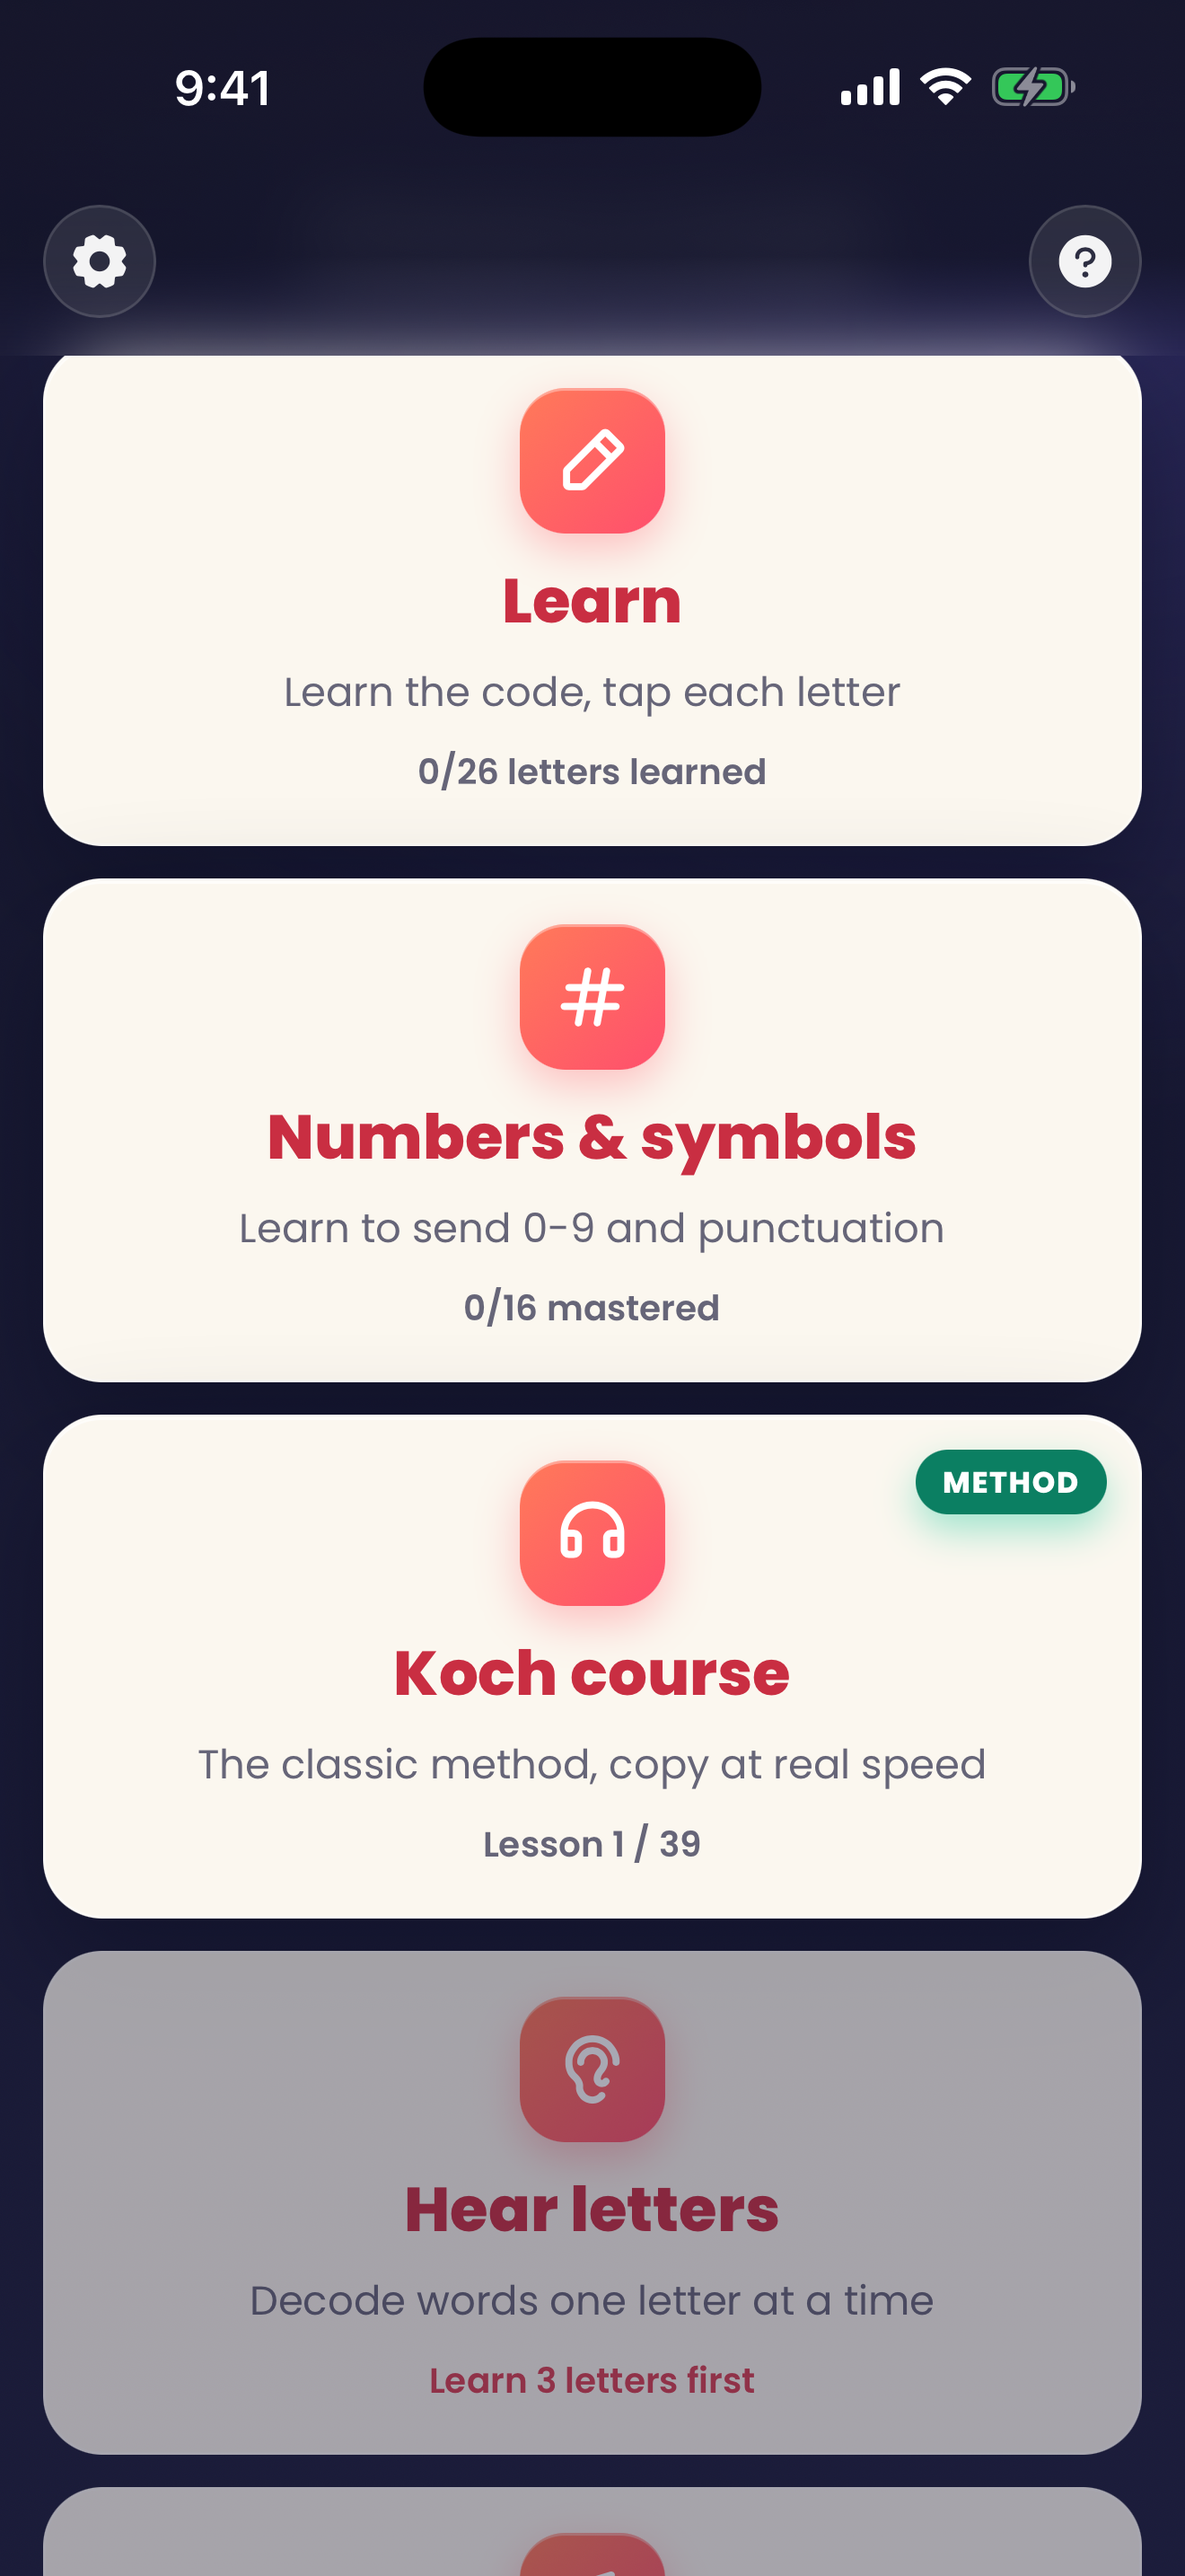
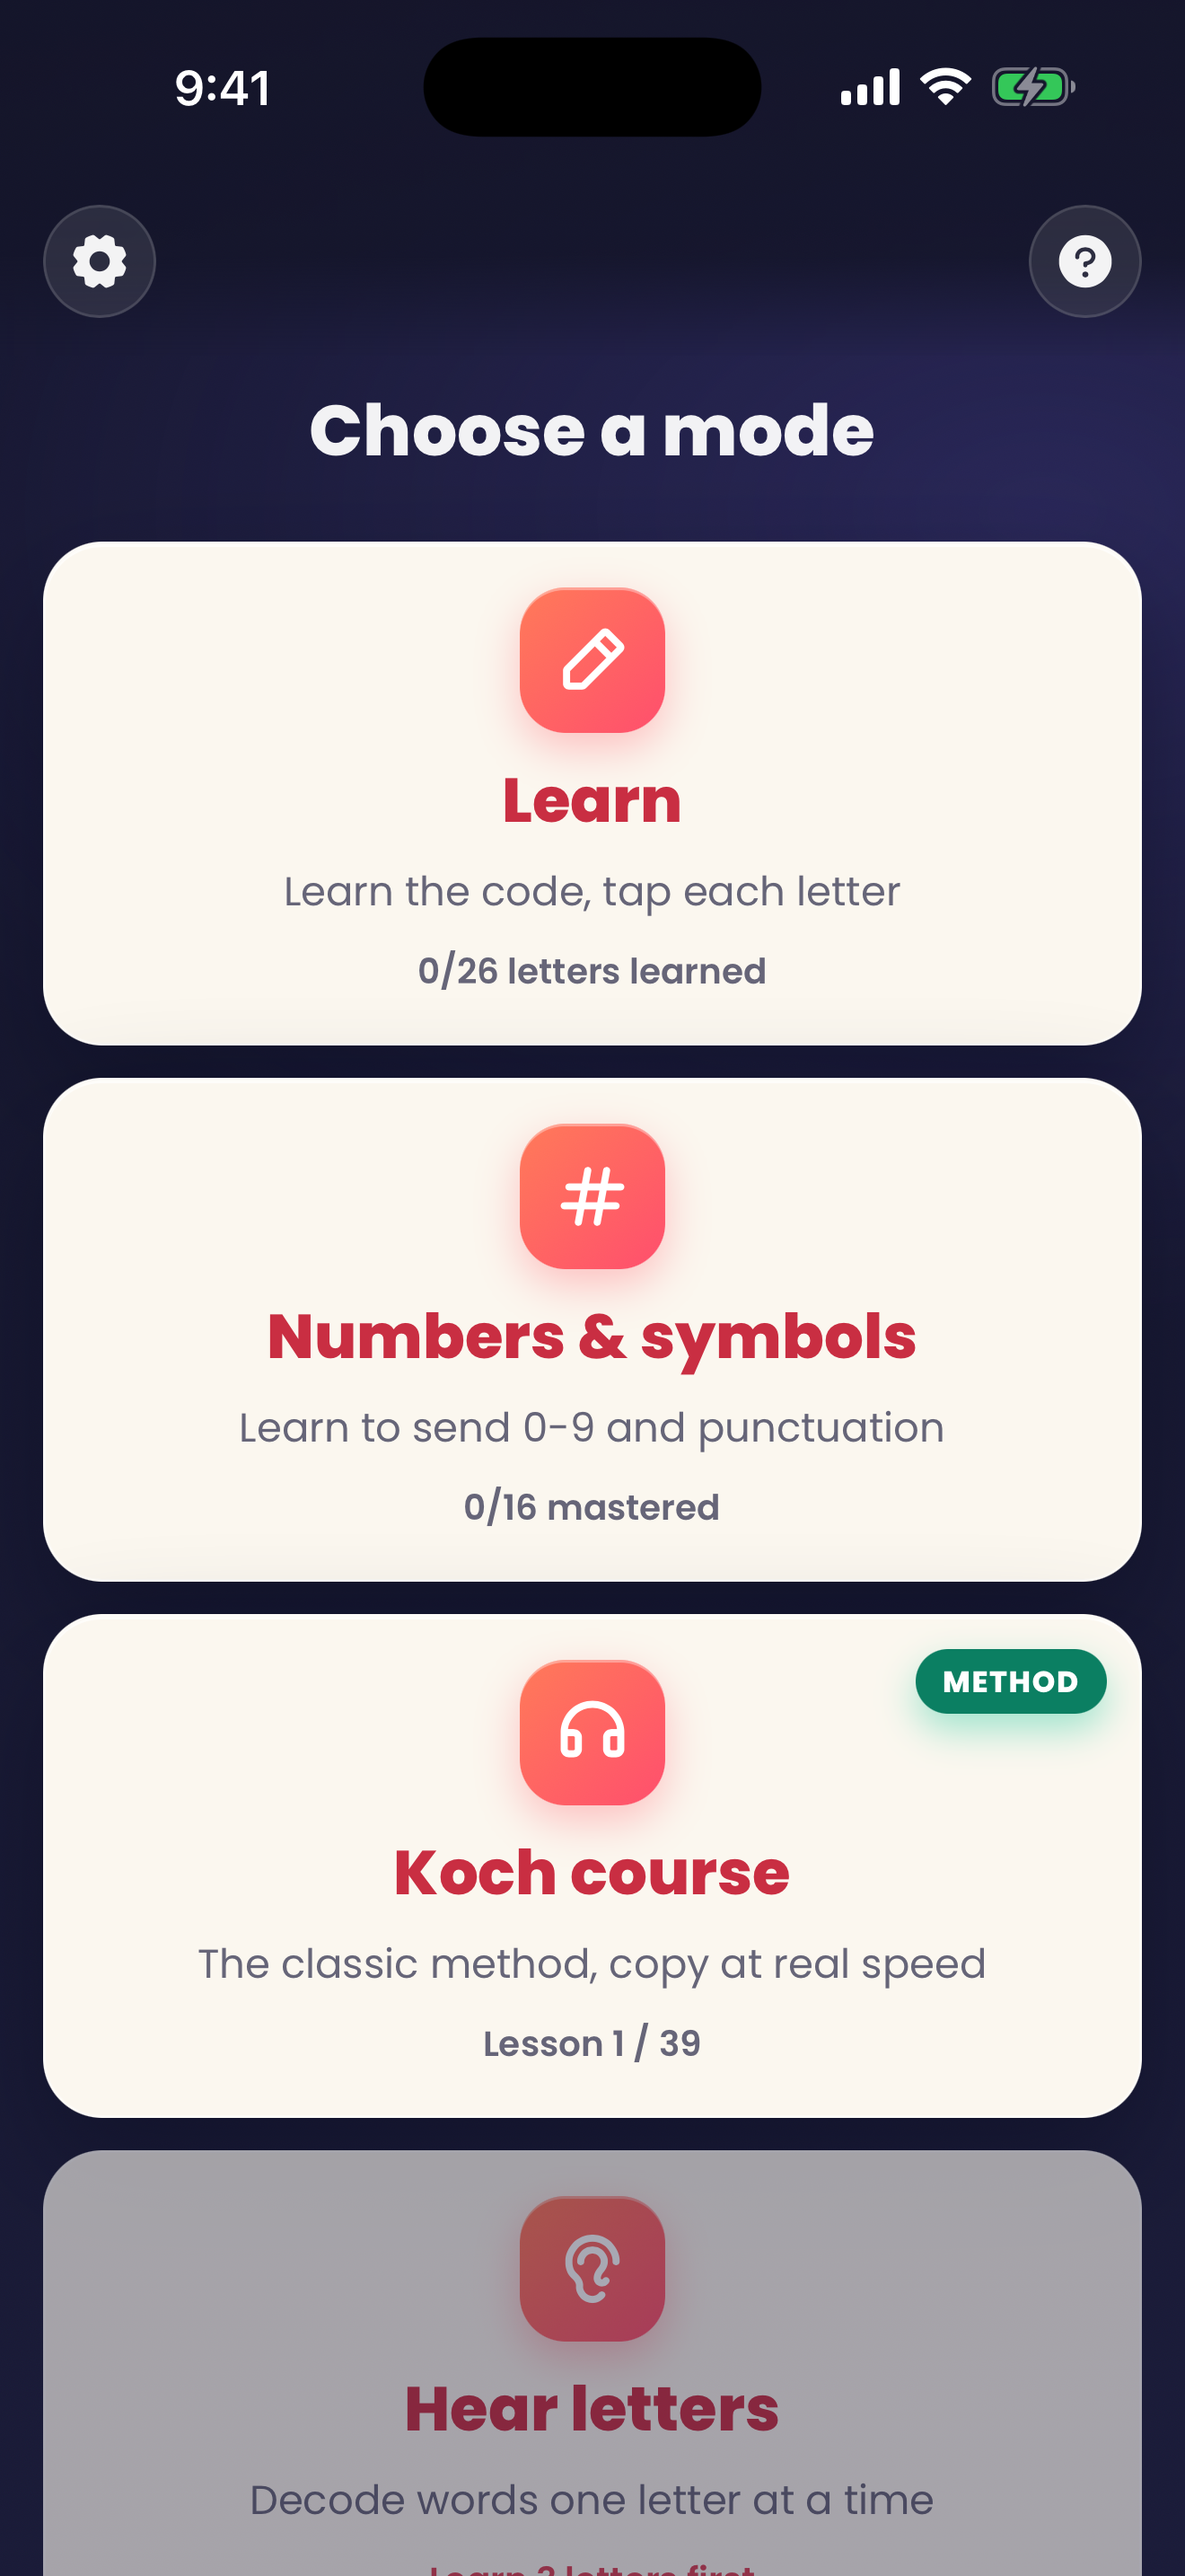
Align the brand on Dit Dah Me and close a Guideline 1.5 gap before submitting
Ryan asked for one submission, so this is a pass over what a reviewer would
object to rather than only the rename.

The rename now runs end to end: the start-screen wordmark, the share sheet
text, the home screen, and the listing all say Dit Dah Me. The wordmark went
from six characters on one word to ten across three, so .start-title.brand
drops from 22vw to 12.5vw with nowrap; verified on device that it still fills
the width with the gutter intact. The domain stays ditdah.me, which is the
same words spoken aloud.

The real find was Guideline 1.5: the Support URL pointed at ditdah.me, whose
root page carries no contact information at all, and the only email on the
whole site was buried in the privacy policy. Added /support.html with a real
address and answers to the questions people actually ask, linked it from About
beside the privacy policy, and pointed the listing at it.

Also checked, each confirmed rather than assumed: all 12 outbound URLs resolve
200; gaze mode is unreachable in the shell so no camera usage string is needed;
no placeholder text ships (the example.com address lives in the unreachable
Account form and in tests); and external links open real Safari rather than
trapping the reader in the webview.

Six screenshots, recaptured from the current build, now lead with the wordmark.
Getting them needed three attempts and each failure was informative: a clean
reinstall wipes localStorage so the app lands on onboarding, the Koch, Squadron
[…]

diff --git a/public/support.html b/public/support.html
@@ -1,0 +1,99 @@
+<!doctype html>
+<html lang="en">
+<head>
+  <meta charset="utf-8" />
+  <meta name="viewport" content="width=device-width, initial-scale=1.0, viewport-fit=cover" />
+  <title>Support · Dit Dah Me</title>
+  <meta name="description" content="Support and contact for Dit Dah Me, the Morse code trainer at ditdah.me." />
+  <link rel="icon" href="/favicon.svg" type="image/svg+xml" />
+  <link rel="preconnect" href="https://fonts.googleapis.com" />
+  <link rel="preconnect" href="https://fonts.gstatic.com" crossorigin />
+  <link href="https://fonts.googleapis.com/css2?family=Poppins:wght@400;500;600;700;800&display=swap" rel="stylesheet" />
+  <style>
+    :root {
+      --bg-1: #14152a; --bg-2: #1c1d3c; --bg-3: #2a1c3f;
+      --card: #fbf7ef; --ink: #2c2b3a; --ink-soft: #666578;
+      --on-dark: rgba(255,255,255,0.94); --on-dark-soft: rgba(255,255,255,0.62);
+      --amber: #ffb020; --red-text: #c92e42;
+      --font: 'Poppins', system-ui, -apple-system, 'Segoe UI', Helvetica, Arial, sans-serif;
+    }
+    * { margin: 0; padding: 0; box-sizing: border-box; }
+    body {
+      background: linear-gradient(160deg, var(--bg-1) 0%, var(--bg-2) 55%, var(--bg-3) 100%);
+      background-attachment: fixed;
+      color: var(--on-dark);
+      font: 16px/1.65 var(--font);
+      padding: 32px 20px calc(56px + env(safe-area-inset-bottom));
+    }
+    main { max-width: 680px; margin: 0 auto; }
+    .top { font-size: 14px; display: inline-block; margin-bottom: 22px; color: var(--amber); text-decoration: none; font-weight: 600; }
+    .top:hover { text-decoration: underline; }
+    h1 { font-size: clamp(28px, 7vw, 36px); font-weight: 800; letter-spacing: -0.5px; line-height: 1.15; margin-bottom: 6px; }
+    .sub { color: var(--on-dark-soft); font-size: 14px; margin-bottom: 26px; }
+    h2 { font-size: 20px; font-weight: 700; margin: 30px 0 8px; }
+    p, li { margin-bottom: 10px; }
+    ul { padding-left: 22px; margin-bottom: 10px; }
+    a { color: var(--amber); }
+    .card {
+      background: var(--card); color: var(--ink);
+      border-radius: 16px; padding: 18px 20px; margin: 16px 0;
+      box-shadow: 0 18px 40px rgba(8,10,30,0.45), inset 0 1px 0 rgba(255,255,255,0.7);
+    }
+    .card p:last-child { margin-bottom: 0; }
+    .card a { color: var(--red-text); }
+    table { width: 100%; border-collapse: collapse; margin: 14px 0; font-size: 15px; }
+    th, td { text-align: left; padding: 9px 10px; border-bottom: 1px solid rgba(255,255,255,0.14); vertical-align: top; }
+    th { font-weight: 700; color: var(--on-dark); }
+    td { color: var(--on-dark-soft); }
+    .foot { margin-top: 34px; padding-top: 16px; border-top: 1px solid rgba(255,255,255,0.14); font-size: 14px; color: var(--on-dark-soft); }
+    @media (prefers-reduced-motion: reduce) { * { animation: none !important; transition: none !important; } }
+  </style>
+</head>
+<body>
+  <main>
+    <a class="top" href="/">&larr; Dit Dah Me</a>
+    <h1>Support</h1>
+    <p class="sub">Dit Dah Me (ditdah.me and the iPhone app) · Updated October 25, 2026</p>
+
+    <div class="card">
+      <p><strong>Need help, found a bug, or have an idea?</strong> Email
+      <a href="mailto:ryanbyrd@gmail.com">ryanbyrd@gmail.com</a> and you will get
+      a reply from a person. There is no ticket system and no bot.</p>
+    </div>
+
+    <h2>Common questions</h2>
+
+    <h2>Do I need an account?</h2>
+    <p>No. The iPhone app has no sign-in at all, and everything you learn is
+    stored on your own device.</p>
+
+    <h2>How do I move my progress to another device?</h2>
+    <p>Settings shows a <strong>progress code</strong>. Read it on the old
+    device, type it into the new one. Nothing is stored on a server.</p>
+
+    <h2>The sound does not play</h2>
+    <p>Check the ring/silent switch and the volume. Dit Dah Me plays through the
+    normal media channel, so it should be audible even with the ringer off; if
+    it is not, please email and say which iPhone and iOS version you are on.</p>
+
+    <h2>How do I erase everything?</h2>
+    <p>Settings &rarr; <strong>Reset progress</strong>. Deleting the app removes
+    it all too.</p>
+
+    <h2>Accessibility</h2>
+    <p>Dit Dah Me supports VoiceOver throughout, one-switch scanning, and a
+    single-key mode where a short press is a dit and a long press is a dah. If
+    something is hard to use with your setup, please say so in an email; that
+    feedback shapes the app.</p>
+
+    <h2>Privacy</h2>
+    <p>See the <a href="/privacy.html">privacy policy</a>. The short version:
+    no account, no ads, nothing sold.</p>
+
+    <div class="foot">
+      <p>Email: <a href="mailto:ryanbyrd@gmail.com">ryanbyrd@gmail.com</a></p>
+      <p>Dit Dah Me is a remake of Ace Centre's Morse Learn, used under Apache 2.0.</p>
+    </div>
+  </main>
+</body>
+</html>

diff --git a/src/components/Share.tsx b/src/components/Share.tsx
@@ -44,20 +44,20 @@ const TARGETS: Target[] = [
   {
     id: 'reddit',
     label: 'Reddit',
-    href: `https://www.reddit.com/submit?url=${enc(SITE)}&title=${enc('Ditdah: learn Morse code, one dit at a time')}`,
+    href: `https://www.reddit.com/submit?url=${enc(SITE)}&title=${enc('Dit Dah Me: learn Morse code, one dit at a time')}`,
     Icon: RedditLogo,
     tint: '#ff4500',
   },
   {
     id: 'email',
     label: 'Email',
-    href: `mailto:?subject=${enc('Ditdah: learn Morse code')}&body=${enc(`${BLURB}\n\n${SITE}`)}`,
+    href: `mailto:?subject=${enc('Dit Dah Me: learn Morse code')}&body=${enc(`${BLURB}\n\n${SITE}`)}`,
     Icon: EnvelopeSimple,
     tint: '#6b6b7b',
   },
 ];
 
-/** Share Ditdah with a friend. Uses the native sheet where the device has one. */
+/** Share Dit Dah Me with a friend. Uses the native sheet where the device has one. */
 export function Share({ compact = false }: { compact?: boolean }) {
   const { settings } = useApp();
   const [copied, setCopied] = useState(false);
@@ -66,7 +66,7 @@ export function Share({ compact = false }: { compact?: boolean }) {
 
   const nativeShare = async () => {
     try {
-      await navigator.share({ title: 'Ditdah', text: BLURB, url: SITE });
+      await navigator.share({ title: 'Dit Dah Me', text: BLURB, url: SITE });
       note('native');
     } catch {
       /* the user dismissed the sheet */
@@ -91,7 +91,7 @@ export function Share({ compact = false }: { compact?: boolean }) {
       <h2 className="share-title" id="share-title">
         <ShareNetwork size={18} weight="bold" aria-hidden="true" /> Know someone who would like this?
       </h2>
-      <p className="share-sub">Send them Ditdah. It is free and needs no account.</p>
+      <p className="share-sub">Send them Dit Dah Me. It is free and needs no account.</p>
 
       <div className="share-row">
         {TARGETS.map(({ id, label, href, Icon, tint }) => (
@@ -110,7 +110,7 @@ export function Share({ compact = false }: { compact?: boolean }) {
           </a>
         ))}
 
-        <button className="share-btn copy" onClick={copy} aria-label="Copy link to Ditdah">
+        <button className="share-btn copy" onClick={copy} aria-label="Copy link to Dit Dah Me">
           {copied ? <Check size={22} weight="bold" aria-hidden="true" /> : <LinkSimple size={22} weight="bold" aria-hidden="true" />}
           <span>{copied ? 'Copied' : 'Copy link'}</span>
         </button>

diff --git a/src/index.css b/src/index.css
@@ -969,7 +969,10 @@ input, textarea { user-select: text; -webkit-user-select: text; font-size: 16px;
 .np-chip.current { background: var(--red); color: #fff; box-shadow: 0 4px 12px rgba(255,79,109,0.4); }
 
 /* Brand wordmark */
-.start-title.brand { font-size: clamp(72px, 22vw, 150px); letter-spacing: -3px; }
+/* "Dit Dah Me" is ten characters across three words, where "Ditdah" was six on
+   one. 22vw overflowed the phone; this keeps it on a single line edge to edge
+   with the gutter intact. */
+.start-title.brand { font-size: clamp(34px, 12.5vw, 92px); letter-spacing: -2px; white-space: nowrap; }
 .start-tagline { margin: -6px 0 0; color: var(--on-dark-soft); font-size: clamp(15px, 3.6vw, 20px); font-weight: 600; }
 
 /* Koch course */

diff --git a/src/components/AboutScreen.tsx b/src/components/AboutScreen.tsx
@@ -62,6 +62,10 @@ export function AboutScreen({
           <a href="https://ditdah.me/privacy.html" target="_blank" rel="noreferrer">
             Privacy policy
           </a>{' '}
+          ·{' '}
+          <a href="https://ditdah.me/support.html" target="_blank" rel="noreferrer">
+            Support
+          </a>{' '}
           · no account needed, progress stays on your device
         </p>
         <button className="btn" onClick={onShowAttributions} style={{ width: '100%', marginTop: 8 }}>

diff --git a/e2e/smoke.spec.ts b/e2e/smoke.spec.ts
@@ -4,7 +4,7 @@ import { seed, boot, openMode } from './helpers';
 test.describe('app shell', () => {
   test('shows the brand on the start screen and enters on a click', async ({ page }) => {
     await page.goto('/');
-    await expect(page.locator('.start-title')).toHaveText('Ditdah');
+    await expect(page.locator('.start-title')).toHaveText('Dit Dah Me');
     await expect(page.locator('.start-tagline')).toContainText('one dit at a time');
 
     await page.locator('.start-screen').click();

diff --git a/src/components/StartScreen.tsx b/src/components/StartScreen.tsx
@@ -32,7 +32,7 @@ export function StartScreen({ onStart }: { onStart: () => void }) {
         <span />
         <span />
       </div>
-      <h1 className="start-title brand">Ditdah</h1>
+      <h1 className="start-title brand">Dit Dah Me</h1>
       <p className="start-tagline">Morse code, one dit at a time</p>
       <p className="start-prompt">
         {isTouchPrimary() ? 'Tap anywhere to start.' : 'Press any button to Start.'}

diff --git a/docs/APP_STORE.md b/docs/APP_STORE.md
@@ -39,8 +39,30 @@
   system browser. (Gibberish Gym needed a native-share fix because it used
   `window.open(url, '_self')`, which navigates in place inside the webview;
   Ditdah never had that bug. Checked, not assumed.)
-- Store screenshots (6.9", 1320x2868, iPhone 17 Pro Max simulator) in
-  `appstore/screenshots/`.
+- **Six** store screenshots (6.9", 1320x2868, iPhone 17 Pro Max simulator) in
+  `appstore/screenshots/`, recaptured 2026-10-25 from the current build:
+  start (leads with the Dit Dah Me wordmark), mode menu, Learn, Koch course,
+  Signal Squadron mid-play, Translator.
+- **Support page at https://ditdah.me/support.html** with a real contact email,
+  because Guideline 1.5 wants the Support URL to carry up-to-date contact
+  information and the site root had none. Linked from About beside the privacy
+  policy.
+
+## Pre-submission reviewer pass (2026-10-25)
+
+Checked rather than assumed, so the first submission is the only one:
+
+| Guideline | Check | Result |
+|---|---|---|
+| 2.1 completeness | Every outbound URL in the app resolved | 12/12 return 200 |
+| 1.5 support URL | Contact info reachable from the Support URL | **Was missing** — site root had none; added `/support.html` |
+| 2.3.8 metadata | Store name, home screen, wordmark, share text | All now say Dit Dah Me |
+| 2.3.3 screenshots | Real captures of the app in use | 6/6, recaptured from the current build |
+| 5.1.1 privacy | Policy reachable in-app and from the listing | About screen + listing URL, names the app |
+| 5.1.1 camera | Gaze mode reachable in the shell? | No — gated twice; no `NSCameraUsageDescription` needed |
+| 2.1 placeholders | Placeholder text or emails shipped? | No — only in tests and the unreachable Account form |
+| 4.8 / 5.1.1(v) | Sign-in present? | No account layer in the bundle; verified by the build guard |
+| 2.5.1 private API | External links trap the user in the webview? | No — verified on device, they open real Safari |
 
 ## Guideline 4.2 defense (put in App Review notes)
 
@@ -98,7 +120,7 @@ without having to infer it.
 | Name (30) | `Dit Dah Me` — **chosen and accepted 2026-10-25** |
 | Subtitle (30) | `Learn Morse by ear and by hand` |
 | Category | Primary: Education · Secondary: Games |
-| Support URL | `https://ditdah.me` |
+| Support URL | `https://ditdah.me/support.html` |
 | Privacy Policy URL | `https://ditdah.me/privacy.html` |
 | Copyright | `© 2026 M. Ryan Byrd` |
 | SKU | `ditdah-ios` · App ID `6826897455` |

diff --git a/docs/IOS-PRD.md b/docs/IOS-PRD.md
@@ -179,7 +179,7 @@ Draft review note in §3.8.
 |---|---|
 | Bundle id | `com.ryanbyrd.ditdah` |
 | Team | `W82VG376HK` |
-| Display name | `Dit Dah Me` (home screen and store listing) |
+| Display name | `Dit Dah Me` (home screen, store listing, and the in-app wordmark) |
 | Version | `1.0 (1)` |
 | Devices | iPhone only (`TARGETED_DEVICE_FAMILY = 1`) |
 | Orientation | Portrait only |
